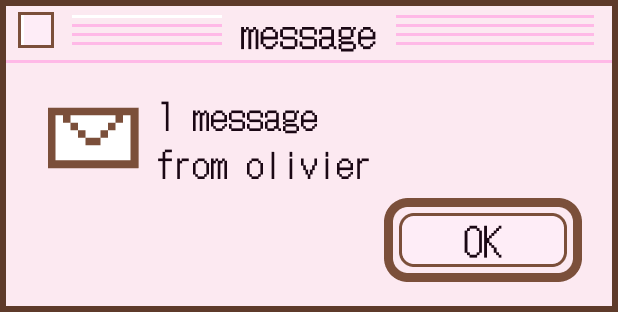
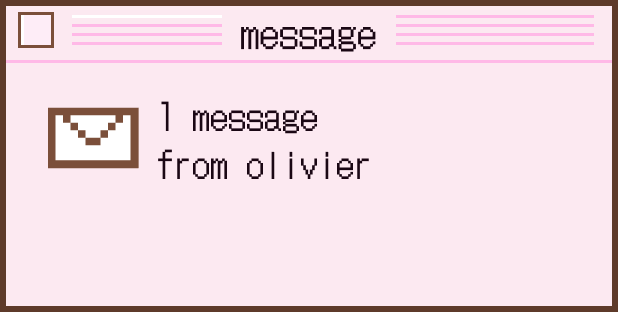
Blink a smaller dialog OK button, enlarge the loading label, raise the dialog

Changed region(s): [[0.6149, 0.6346, 0.9531, 0.9231]]

diff --git a/site.css b/site.css
@@ -465,3 +465,16 @@ button.box.close:hover, .xbox:hover, .a-close:hover { filter: brightness(.95) sa
   #guestbook .stars button { width: 18px !important; height: 18px !important; }
   #guestbook .kb-wrap { margin-top: 8px; }
 }
+
+/* dialog OK: smaller, drawn in CSS, blinking */
+.a-ok { left: auto; top: auto; right: 12px; bottom: 10px; width: 46px; height: 21px; padding: 0; border: 2.5px solid var(--choc-dk); border-radius: 7px;
+  background: var(--panel); box-shadow: inset 0 0 0 1.5px var(--panel), inset 0 0 0 2.5px var(--choc); font: 11px/1 var(--pix); color: var(--ink);
+  animation: okBlink 1.1s steps(1, end) infinite; }
+.a-ok:hover { background: var(--pink); animation: none; }
+@keyframes okBlink { 50% { background: var(--pink); } }
+@media (prefers-reduced-motion: reduce) { .a-ok { animation: none; } }
+@media (max-width: 720px) { .a-ok { right: 9px; bottom: 7px; width: 38px; height: 17px; font-size: 9px; border-width: 2px; } }
+/* loading label +10pt; dialog placement */
+.boot-fill { top: 62.75%; }
+.stage-home .alert { top: 553px; }
+@media (max-width: 720px) { .stage-home .alert { bottom: 72px; } }

diff --git a/index.html b/index.html
@@ -54,7 +54,7 @@
   <div class="alert" id="alert" role="dialog" aria-label="1 message from olivier">
     <img src="./assets/v2/popup.png" alt="message — 1 message from olivier">
     <button class="a-close" data-close-alert aria-label="Close message"></button>
-    <button class="a-ok" data-go="say" aria-label="OK — open the message"></button>
+    <button class="a-ok" data-go="say" aria-label="OK — open the message">OK</button>
   </div>
 </div>
 </section>
